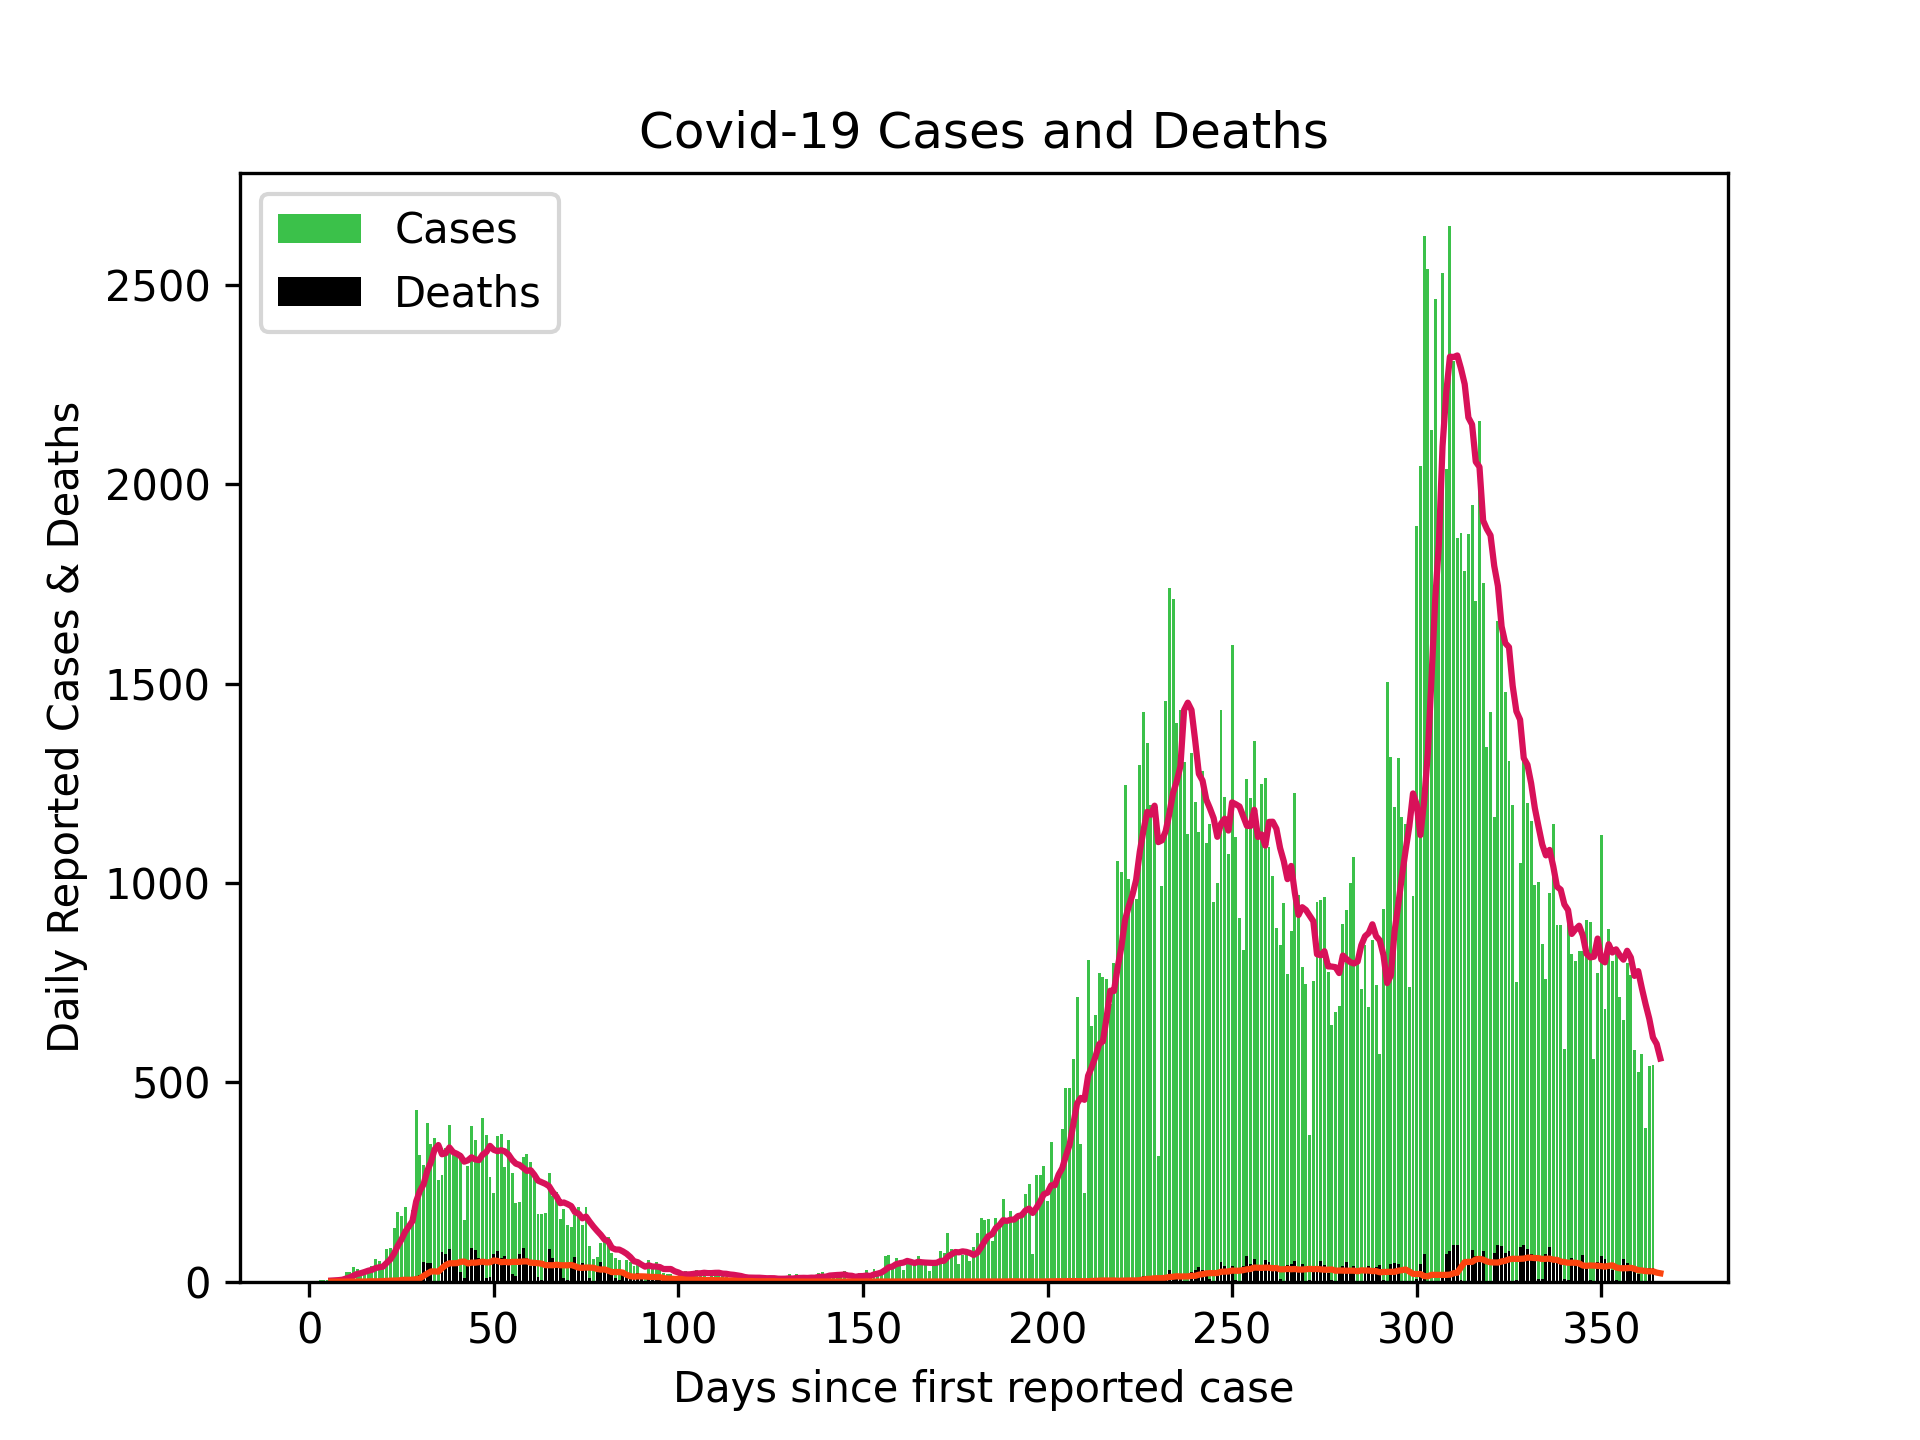
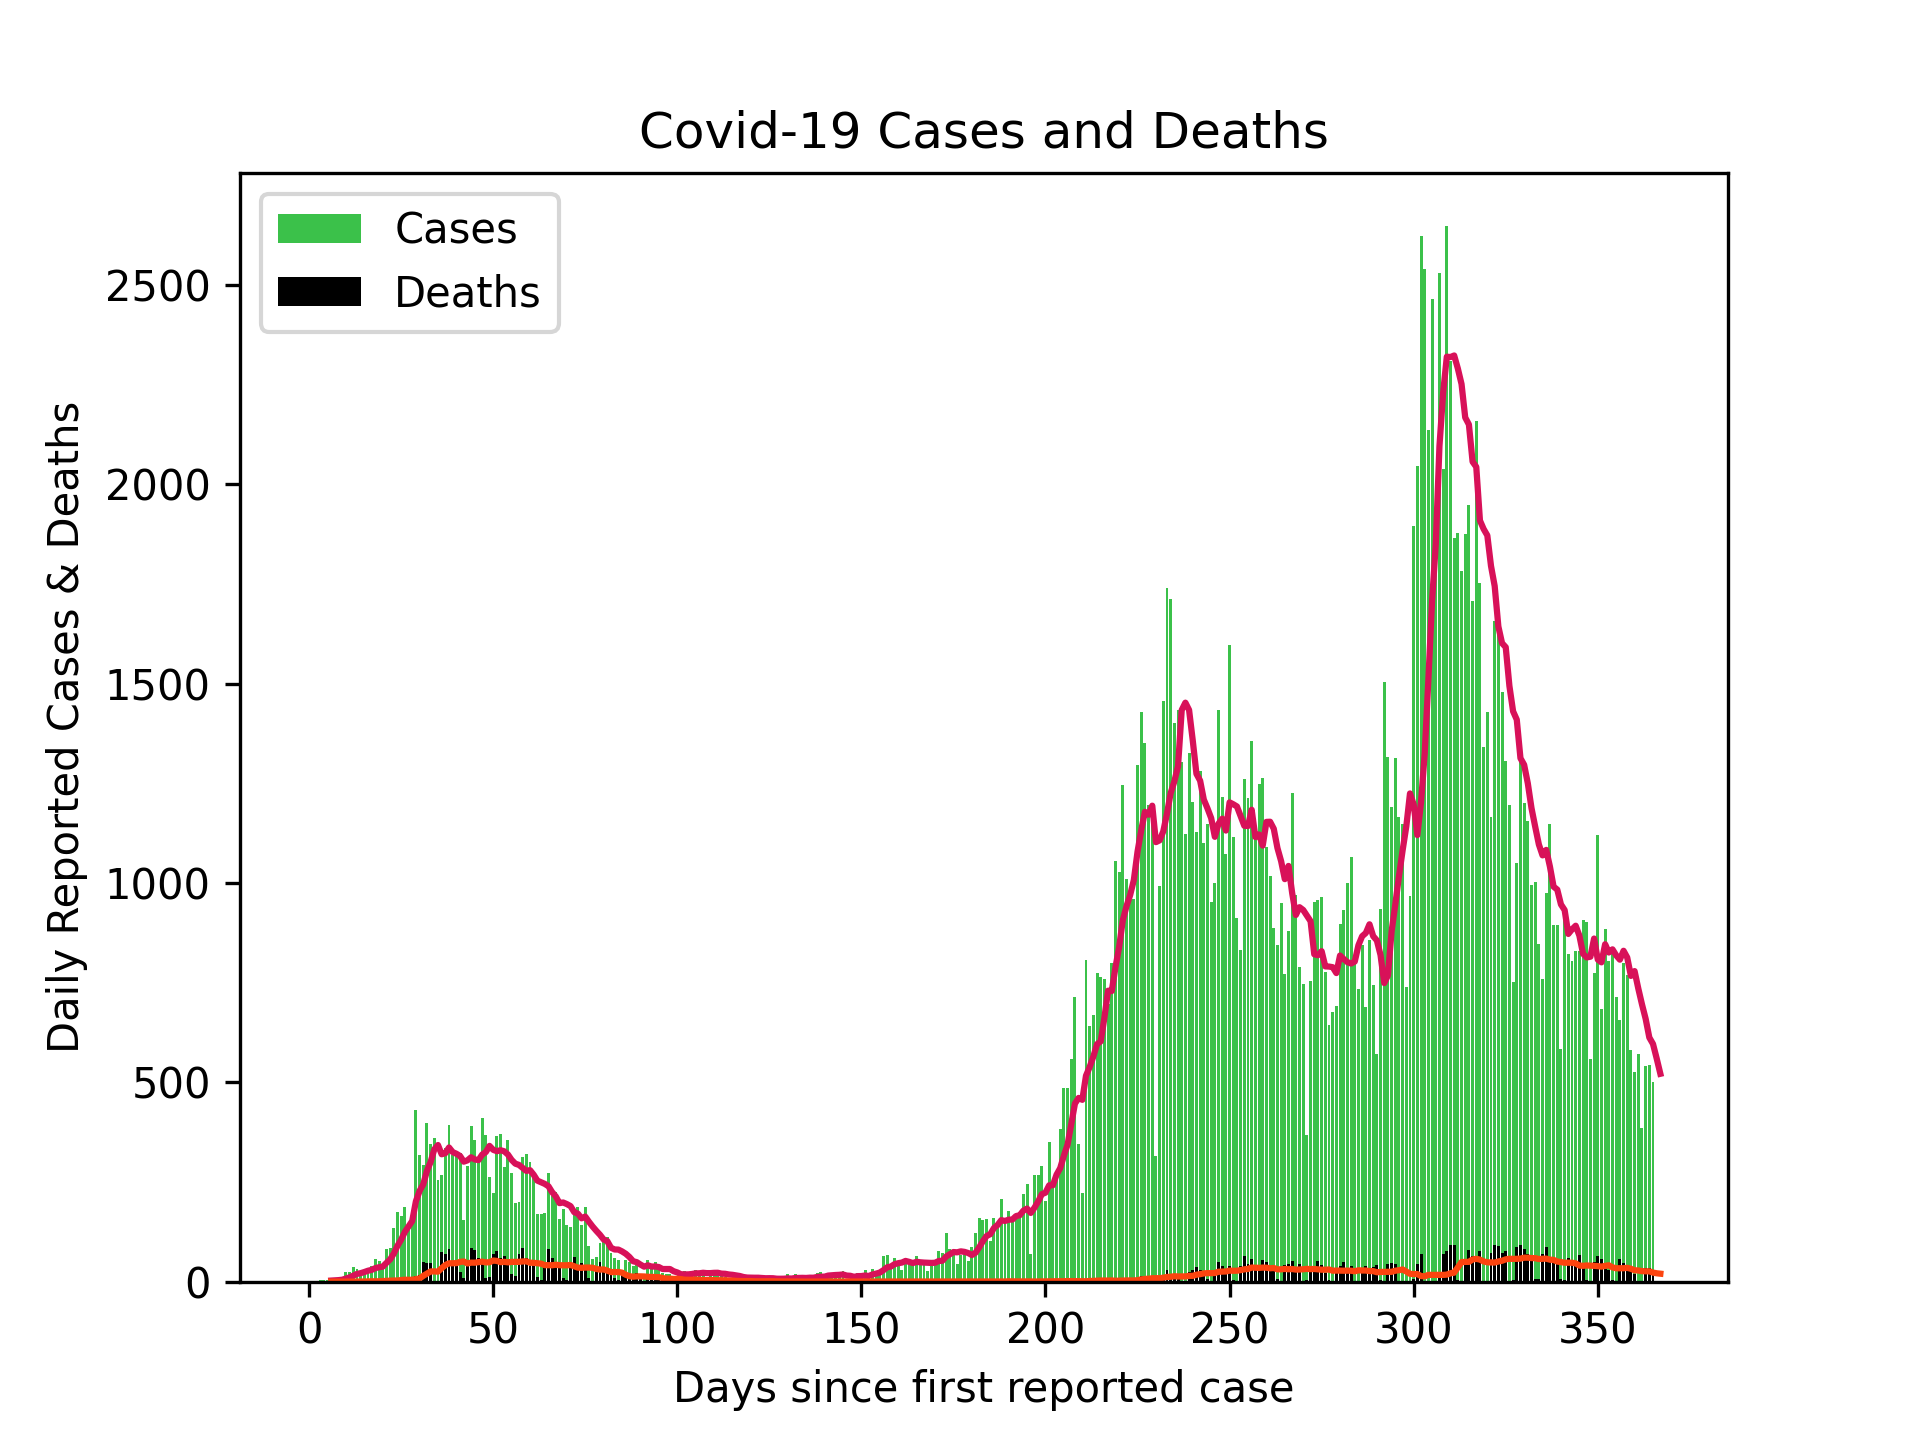
Updated Scottish cases 04/03/21

Changed region(s): [[0.4375, 0.1875, 0.875, 0.9375], [0.1875, 0.7812, 0.3438, 0.9062], [0.3438, 0.9062, 0.375, 0.9375]]

diff --git a/README.md b/README.md
@@ -1,4 +1,4 @@
-# Scottish Cases 03/03/21
+# Scottish Cases 04/03/21
 
 ![alt](scottish_cases.png)
 
